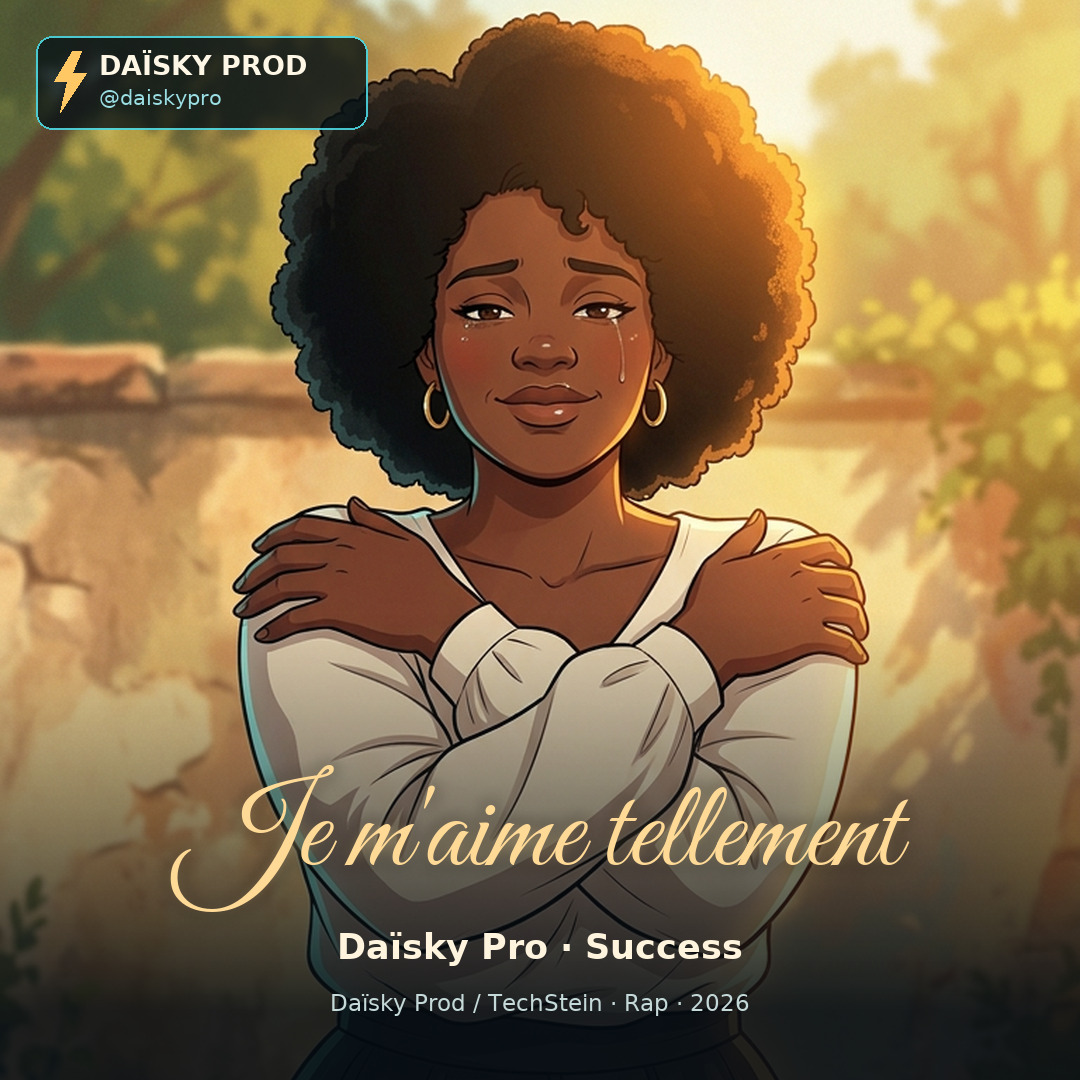
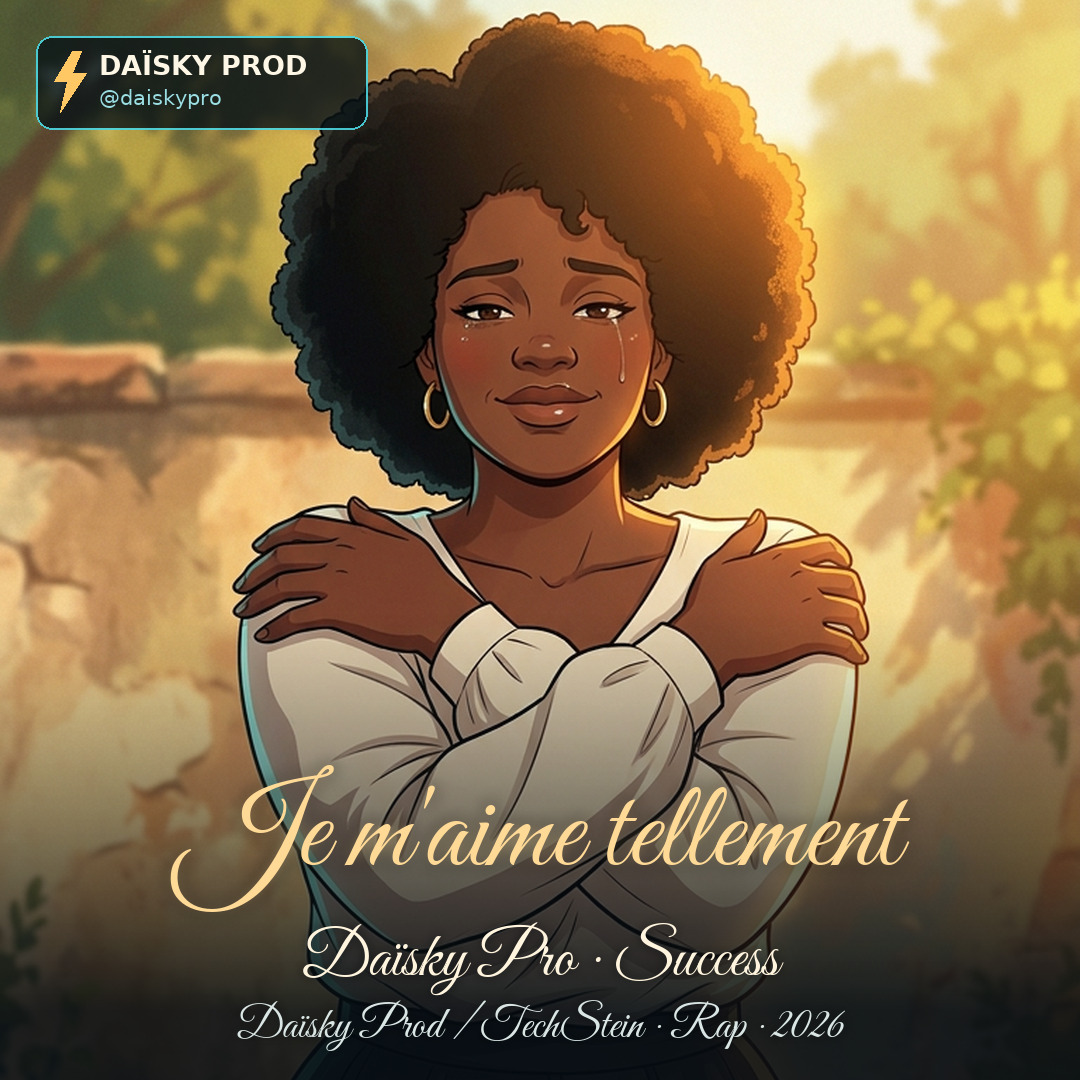
Cover tout en cursive, ré-embarquée dans le MP3

Changed region(s): [[0.2139, 0.8556, 0.7333, 0.9778], [0.7333, 0.9167, 0.7944, 0.9778]]

diff --git a/scripts/master_je_maime.py b/scripts/master_je_maime.py
@@ -39,9 +39,16 @@ def make_cover():
         canvas.text((540, 765), title, font=f, anchor='mt', fill=(255, 218, 151, 255))
     image = Image.alpha_composite(image, glow.filter(ImageFilter.GaussianBlur(8)))
     image = Image.alpha_composite(image, letters)
-    d = ImageDraw.Draw(image)
-    d.text((540, 932), 'Daïsky Pro · Success', font=font(35, True), anchor='mt', fill='#fff4dd')
-    d.text((540, 994), 'Daïsky Prod / TechStein · Rap · 2026', font=font(23), anchor='mt', fill='#c5d9d9')
+    # Tout en cursive, à la demande de l'utilisateur : lignes secondaires en Great Vibes aussi.
+    for y, line, size, color in ((922, 'Daïsky Pro · Success', 64, '#fff4dd'),
+                                 (1000, 'Daïsky Prod / TechStein · Rap · 2026', 44, '#d9e6e4')):
+        while font(size, cursive=True).getlength(line) > 900:
+            size -= 2
+        face = font(size, cursive=True)
+        halo = Image.new('RGBA', image.size)
+        ImageDraw.Draw(halo).text((540, y), line, font=face, anchor='mt', fill=(20, 26, 30, 210))
+        image = Image.alpha_composite(image, halo.filter(ImageFilter.GaussianBlur(5)))
+        ImageDraw.Draw(image).text((540, y), line, font=face, anchor='mt', fill=color)
     image.alpha_composite(make_badge(), (36, 36))
     image.convert('RGB').save(COVER, quality=92, subsampling=0)
     with Image.open(COVER) as check:

diff --git a/projets/je_maime_tellement/SUIVI.md b/projets/je_maime_tellement/SUIVI.md
@@ -2,6 +2,8 @@
 
 ## Correction du 2026-09-06
 
+**Cover tout en cursive** : à la demande de l’utilisateur, les lignes « Daïsky Pro · Success » et « Daïsky Prod / TechStein · Rap · 2026 » sont désormais en Great Vibes comme le titre, avec halo sombre pour la lisibilité. Cover régénérée et ré-embarquée dans le MP3 (l’audio du MP3 est inchangé ; seul le tag APIC change, nouveau SHA `692b742c…`).
+
 L’utilisateur a fourni des **timings corrigés** en conversation. Le fichier source `Je m'aime tellement - Daïsky.lrc` a été remplacé par cette version (49 vers, timestamps strictement croissants, dernier vers à 176,50 s ; encodage cp1252 conservé pour compatibilité avec la chaîne). L’indication `[INTRO-...]` n’existe plus dans la nouvelle version. La chaîne complète a été relancée : analyse → montage → master → rendu → contrôles, tous passés. Le **MP3 est identique au bit près** (les paroles embarquées ne changent pas) ; seul le **MP4 change** (nouvelle synchro texte/image), nouveau SHA-256 `c443ef03…`.
 
 ## Instruction actuelle de l’utilisateur
